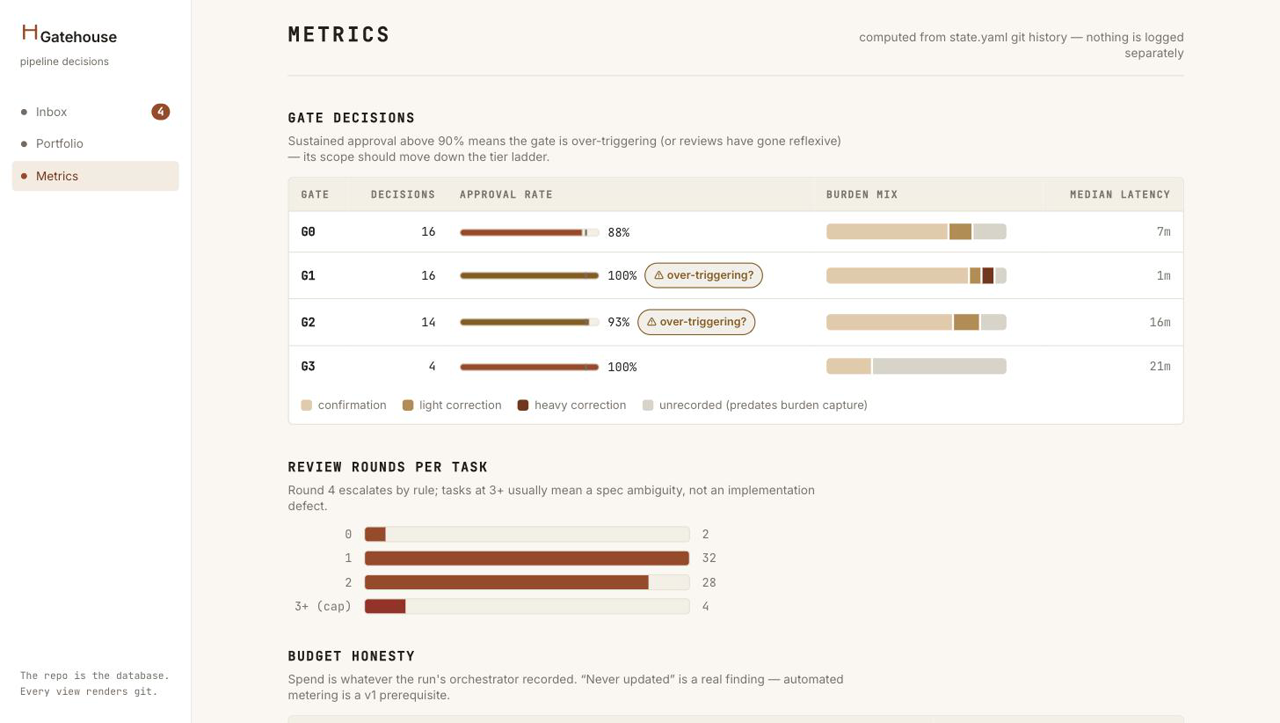
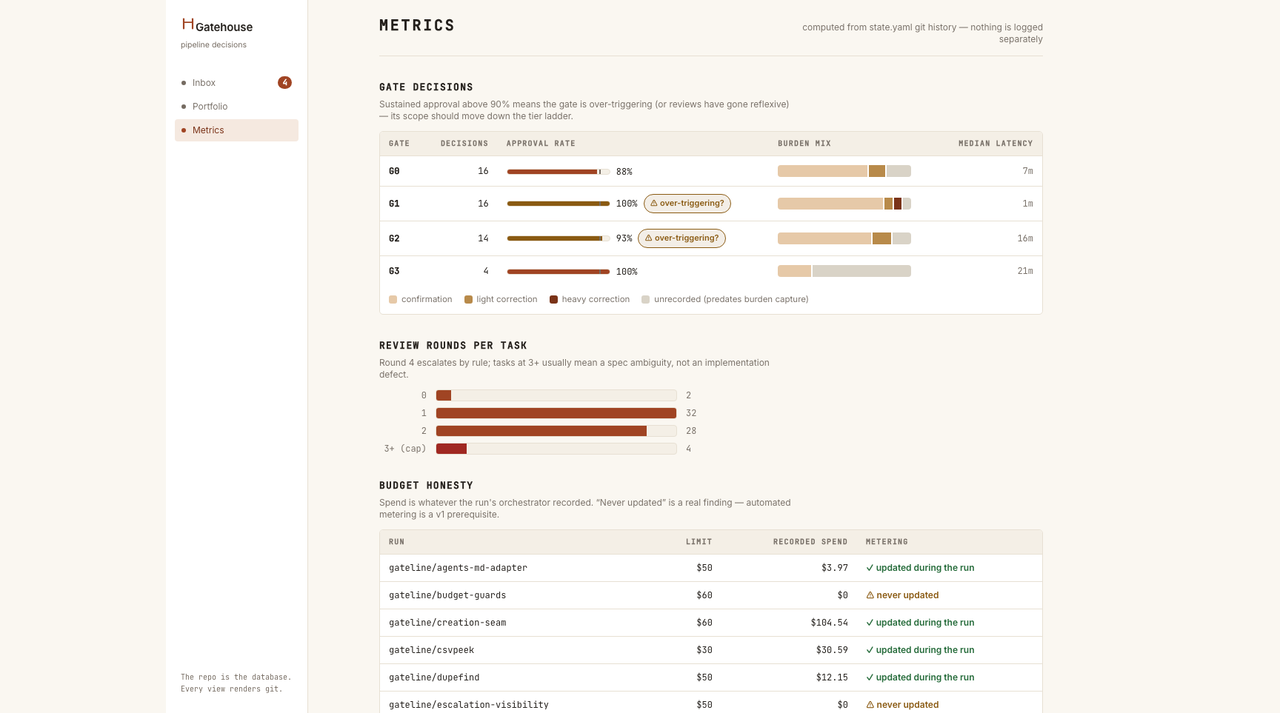
README: the opening in the order a stranger reads it, and the media that earns its place
The draft opened well and then said the same thing three times. The one-line
summary, the first "why" bullet, and a section called "The one idea" — parked
below the repo map, where the reader had already left — all carried the same
claim in slightly different words. The best of the three was the section, so
it moves up to sit directly under the hero, and the bullet that paraphrased
it is gone. The four bullets that remain are consequences of that idea, and
their heading now says so. Reading order is what this is, why it is
different, what to do next, then the map. The "Start here" line grew a third
step, because the Setup section was a second, silent answer to "what next"
that disagreed with the first; it now closes the same sentence.

Two names were competing for one thing. The opening called the web app "a
cockpit that reads nothing but the repository"; a bullet then said the
harness you already use "is the cockpit". The bullet now says dispatching
and chat stay in the harness, and "Gatehouse" is introduced once, in the
caption, as the cockpit — the only place the name appears in visible text
before the map.

The media had one defect a viewer could not name and one they could.
The GIF's last frame jumped: metrics.png had been captured at a 1280-px
viewport where the other four were captured at 1728 and scaled by 0.74, so
the sidebar leapt to the left edge and the type grew by a third. The sidebar
[…]

diff --git a/README.md b/README.md
@@ -7,22 +7,27 @@ each phase gate from a cockpit that reads nothing but the repository. Built for
 senior engineers moving from single-conversation AI pair-programming to
 multi-agent development.
 
-![Gatehouse, the cockpit: the decision inbox, the portfolio's gate ledger, a run paused on an escalation, a finished run's artifact record, and the metrics computed from state history](docs/images/gatehouse.gif)
+![Gatehouse, gateline's cockpit, in five screens: the Inbox with four decisions waiting, one of them a bounced malformed packet; the Portfolio's gate ledger across nineteen runs; the run csvpeek paused on an escalation with its budget over the limit; the finished run fleetview-design and its artifact record; and Metrics flagging gates G1 and G2 as over-triggering.](docs/images/gatehouse.gif)
 
-## Why it is built this way
+## The one idea
 
-- **Agents never share a conversation.** A role consumes files and produces
-  files — spec, plan, tasks, reviews, evidence — validated against contracts
-  the host repo owns. Any agent can be replaced mid-run; models swap in a
-  one-file registry; a new runtime is a thin adapter over the same role specs.
+Agents never share a conversation; they share **typed artifacts in git**. A role
+consumes files, produces files, and a human approves at up to four gates (spec, plan,
+change, release — how many depends on the run's profile). Because roles are contracts
+over files, any agent can be replaced mid-run, models swap via a one-file registry
+edit, and new runtimes attach by writing a thin adapter — which is how the
+cross-vendor requirement and "flexibility over customizability" are both satisfied by
+the same mechanism.
+
+## What falls out of it
+
 - **The repo is the only database.** Every view in the cockpit is recomputed
   from git; delete the app and nothing is lost. There is exactly one write
   path — a compare-and-swap commit to one run's `state.yaml` — and a malformed
   packet never renders as approvable, in the web, the CLI or the API.
-- **Humans decide at gates, and only at gates.** Up to four (spec, plan,
-  change, release) depending on the run's profile, plus escalations. The
-  frontend does not dispatch, steer or chat; the harness you already use is
-  the cockpit for that.
+- **Humans decide at gates, and only at gates** — plus escalations, when an
+  agent is stuck. The cockpit does not dispatch, steer or chat; that stays in
+  the harness you already use.
 - **Money is metered per run.** No cost ceiling, no dispatch; every run shows
   what it has spent against its limit, and a run that crosses it says so.
 - **The gates measure themselves.** Approval rates, burden mix and review
@@ -30,17 +35,15 @@ multi-agent development.
   everything is flagged as over-triggering — the signal to move its scope down
   the tier ladder.
 
-<p align="center">
-  <img src="docs/images/portfolio.png" alt="The portfolio: every run's progress through its gates, recomputed live from its branch" width="49%">
-  <img src="docs/images/run-escalation.png" alt="A run page: the phase spine, the task board, the budget, and an escalation waiting for a human" width="49%">
-</p>
+![The run page for csvpeek, paused on an escalation: the phase spine with G0 and G1 approved and the implement phase current; a task board of four items; the budget reading $31 of $30, marked over; and an escalation card from the orchestrator, waiting 37 days, with its artifacts and a Resolve button.](docs/images/run-escalation-detail.png)
 
-**Start here → [`docs/DESIGN.md`](docs/DESIGN.md)** · then run the toy pipeline:
-[`docs/WALKTHROUGH.md`](docs/WALKTHROUGH.md)
+*Every screenshot is Gatehouse, the cockpit, over this repository's own runs —
+gateline develops itself through its own gates — captured with the
+orchestrator stopped and its "not running" banner hidden.*
 
-The screenshots show this repository's own run history — gateline develops
-itself through its own gates. They were captured with no orchestrator
-running, so the cockpit's "not running" banner is hidden in them.
+**Start here → [`docs/DESIGN.md`](docs/DESIGN.md)** · then drive the toy
+pipeline by hand: [`docs/WALKTHROUGH.md`](docs/WALKTHROUGH.md) · then put it
+over a real repository: [Setup](#setup), below.
 
 ## Repo map
 
@@ -63,16 +66,6 @@ running, so the cockpit's "not running" banner is hidden in them.
 | [`adapters/opencode/`](adapters/opencode/) | Third runtime binding: role specs → `.opencode/agents/*.md` agents | per-runtime |
 | [`.opencode/agents/`](.opencode/agents/) | The rendered opencode agents (any-provider model bindings) | per-runtime |
 | [`runs/`](runs/) | One directory per pipeline run — the pipeline state lives in git | working area |
-
-## The one idea
-
-Agents never share a conversation; they share **typed artifacts in git**. A role
-consumes files, produces files, and a human approves at up to four gates (spec, plan,
-change, release — how many depends on the run's profile). Because roles are contracts
-over files, any agent can be replaced mid-run, models swap via a one-file registry
-edit, and new runtimes attach by writing a thin adapter — which is how the
-cross-vendor requirement and "flexibility over customizability" are both satisfied by
-the same mechanism.
 
 ## Setup
 
